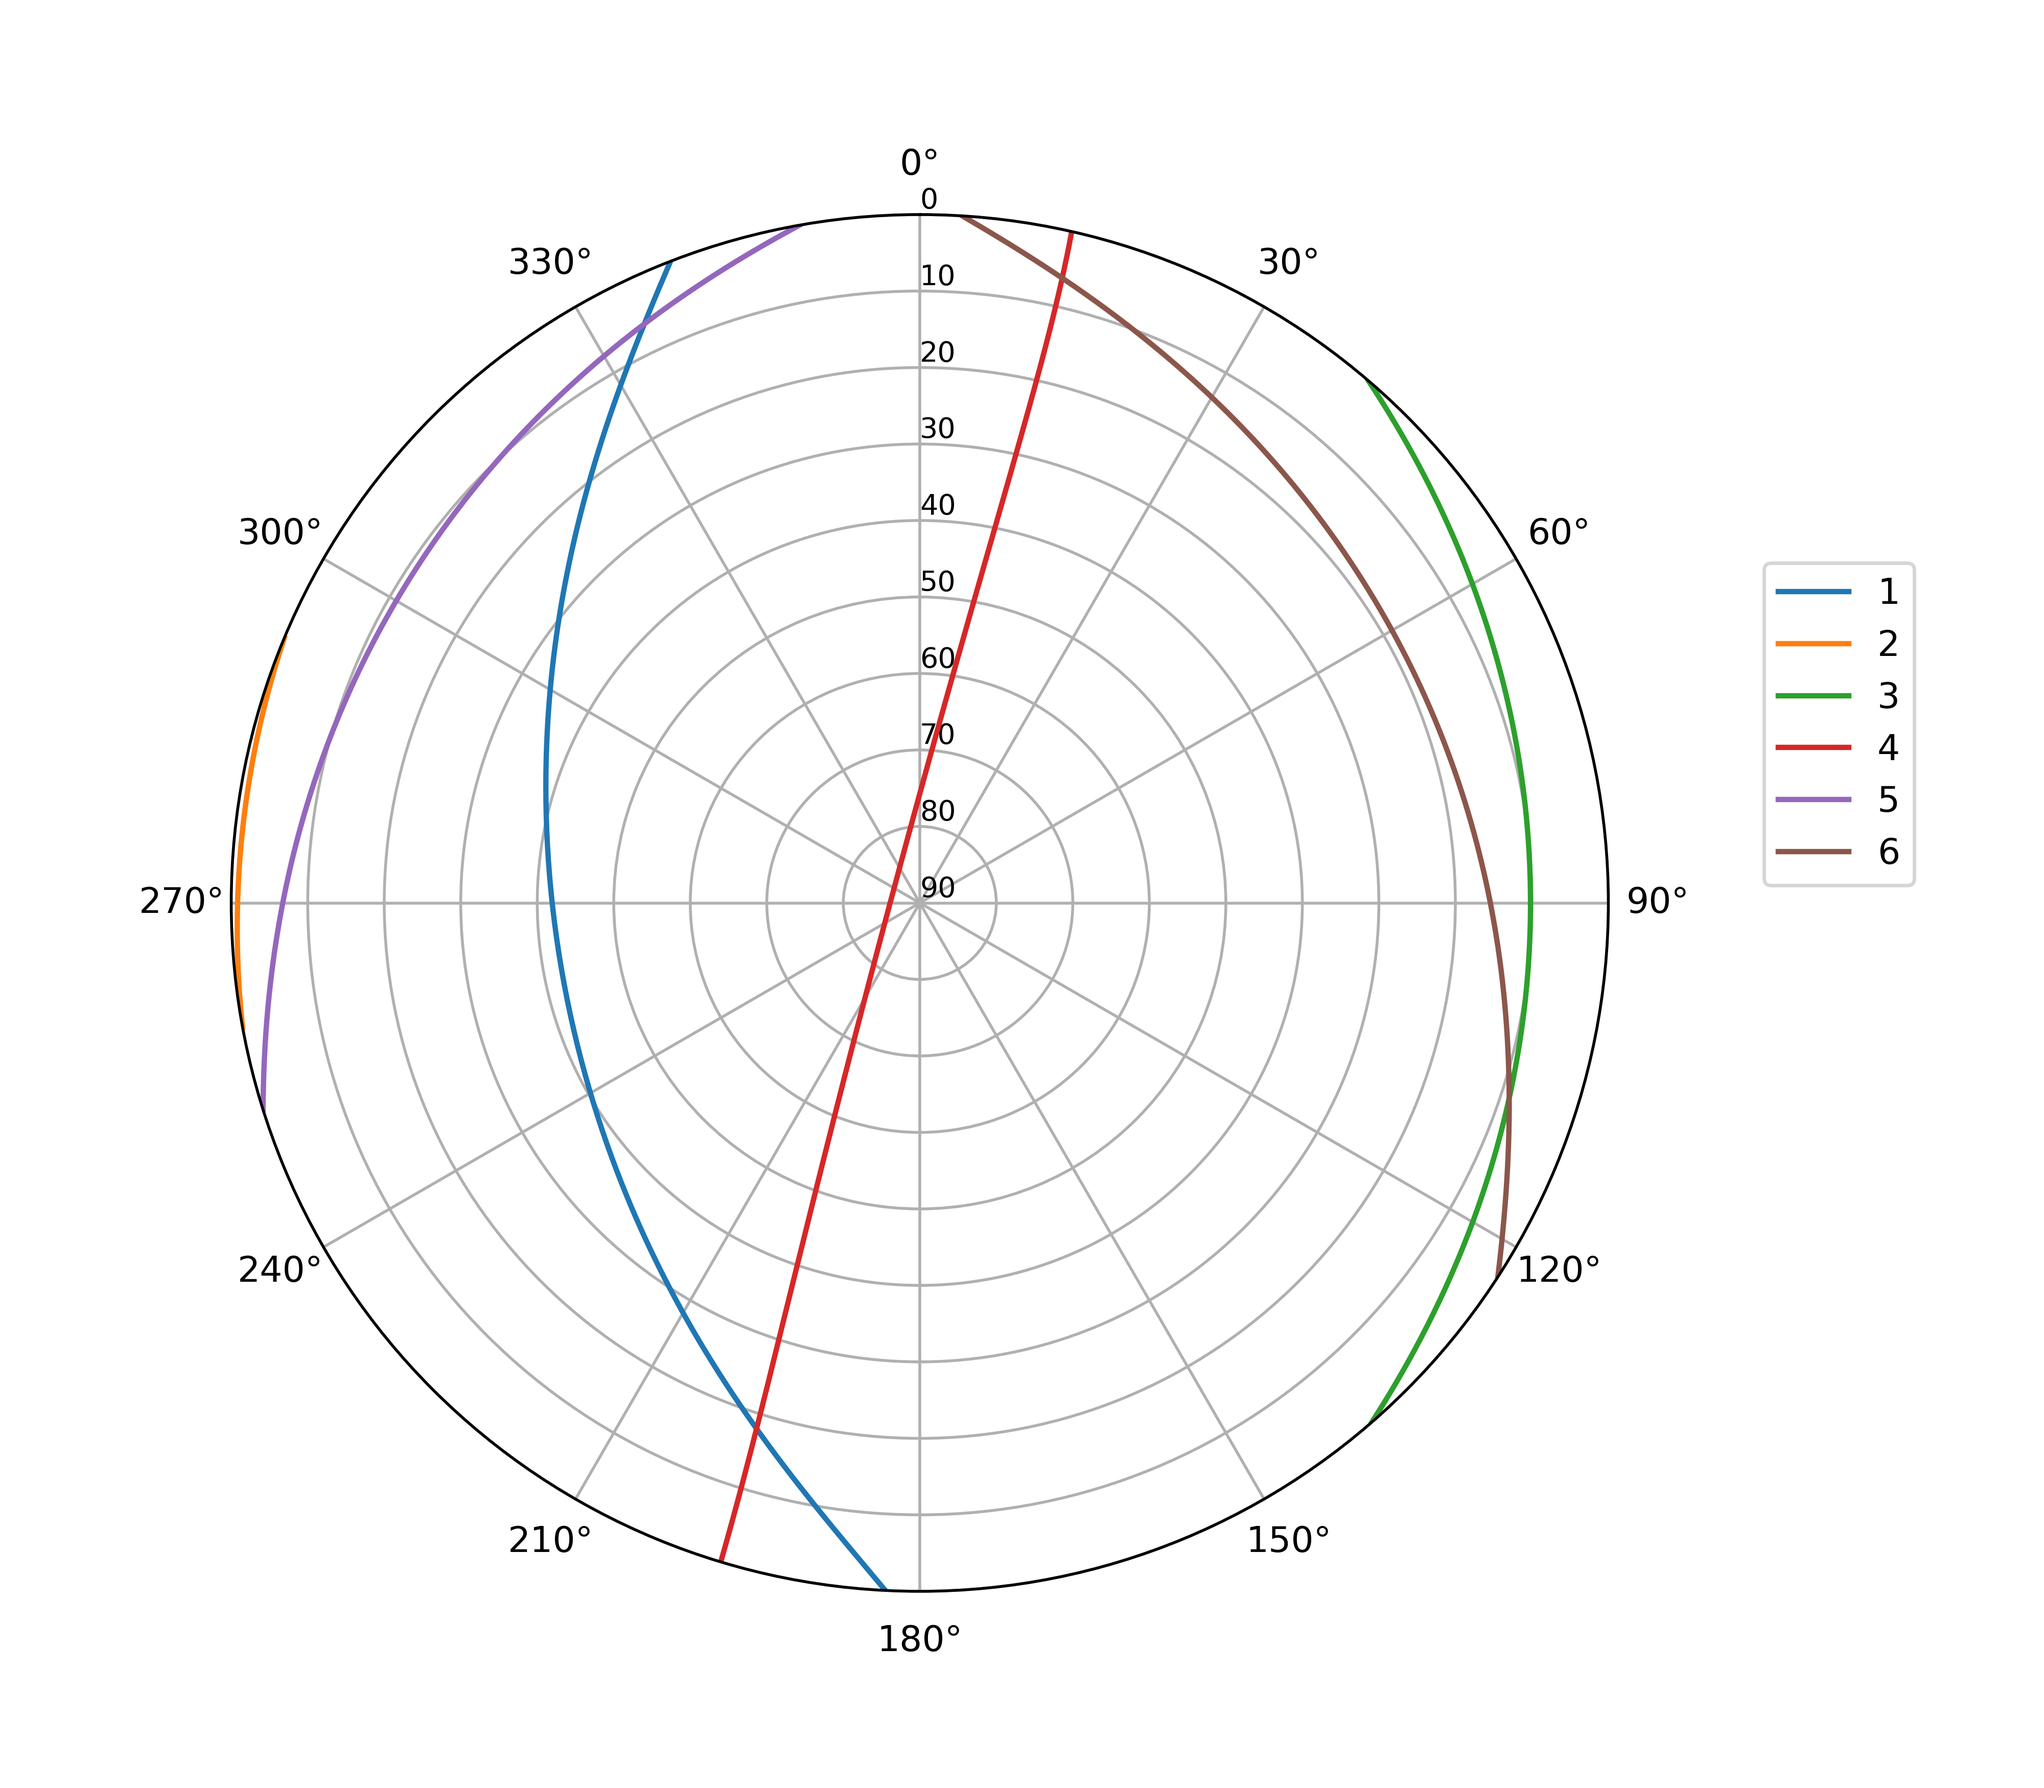
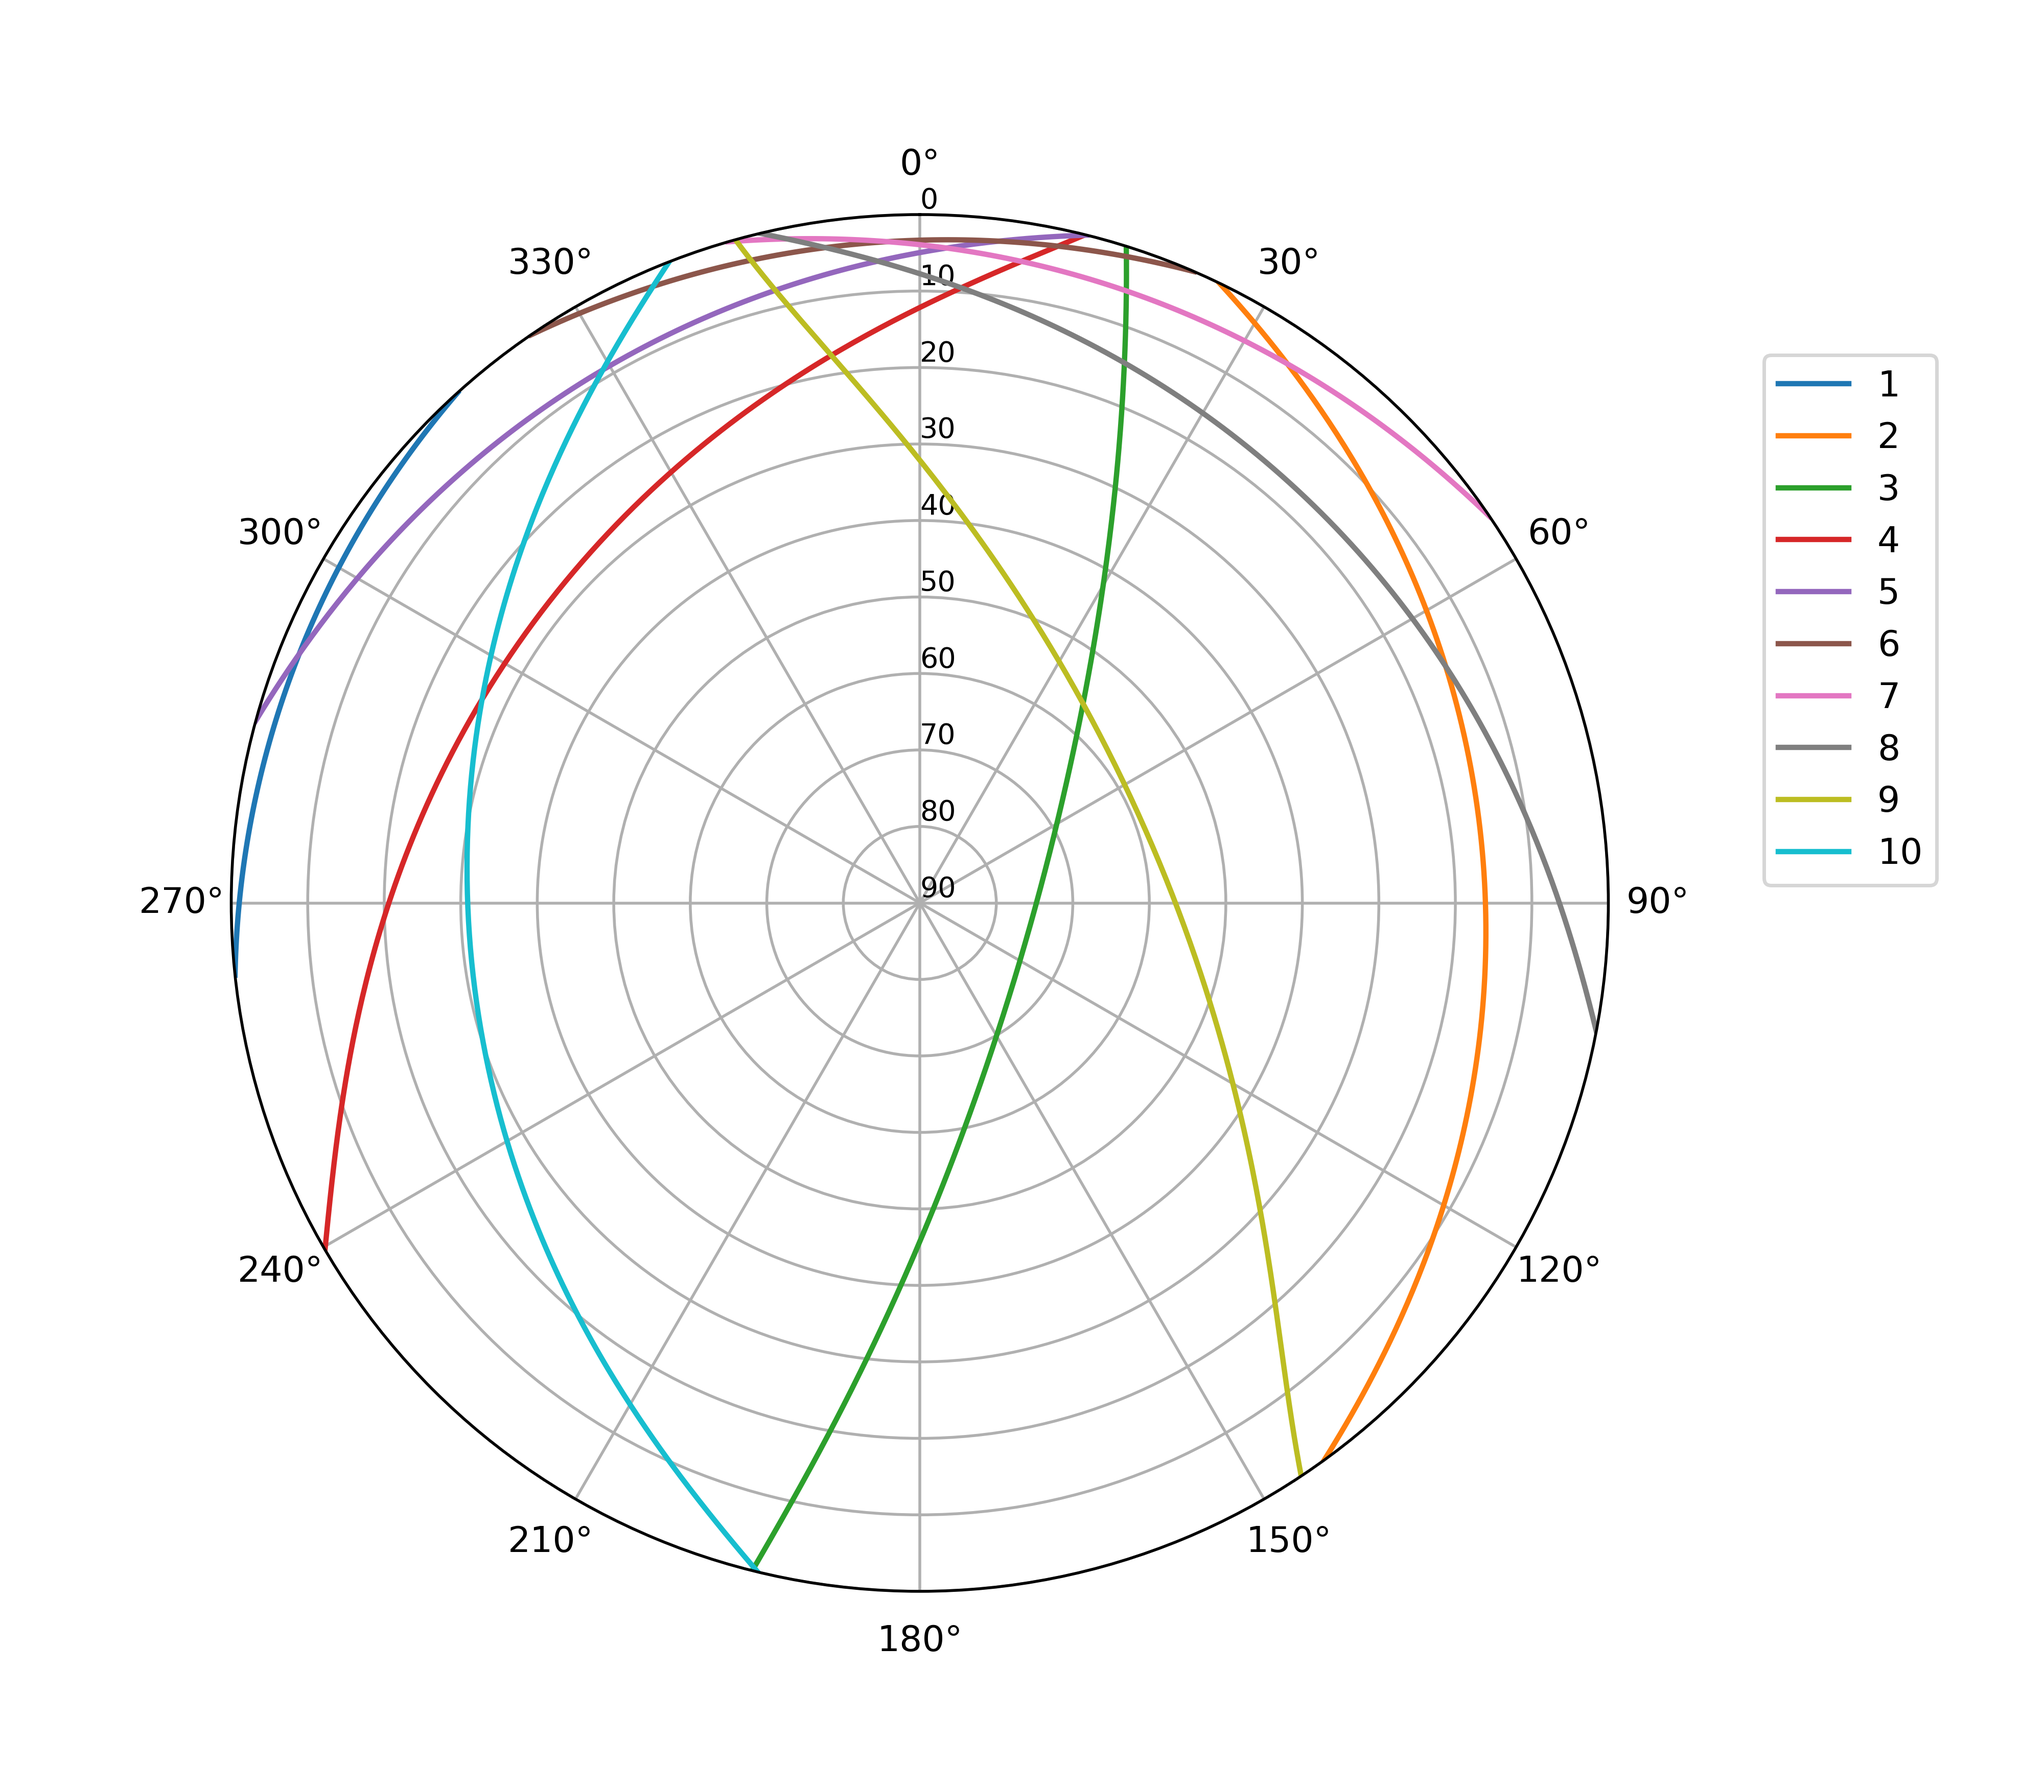
finished

diff --git a/Lab1/plot.py b/Lab1/plot.py
@@ -9,7 +9,7 @@ sat = Orbital('NOAA 19', tle_file='noaa19.txt')
 #utc_time = datetime(2022, 3, 18)
 utc_time = datetime.utcnow()
 length = 24
-lon, lat = 55.920625, 37.557141
+lat, lon = 55.920625, 37.557141
 alt = 0.185
 passes = sat.get_next_passes(utc_time, length, lon, lat, alt)
 out = "В течение следующих " + str(length) + " часов ожидается " + str(len(passes)) + " пролётов:\n"
